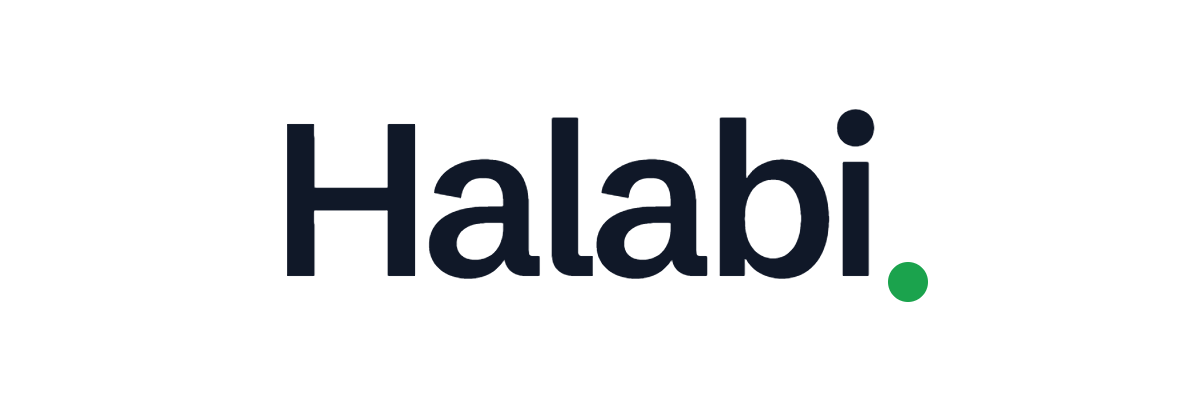
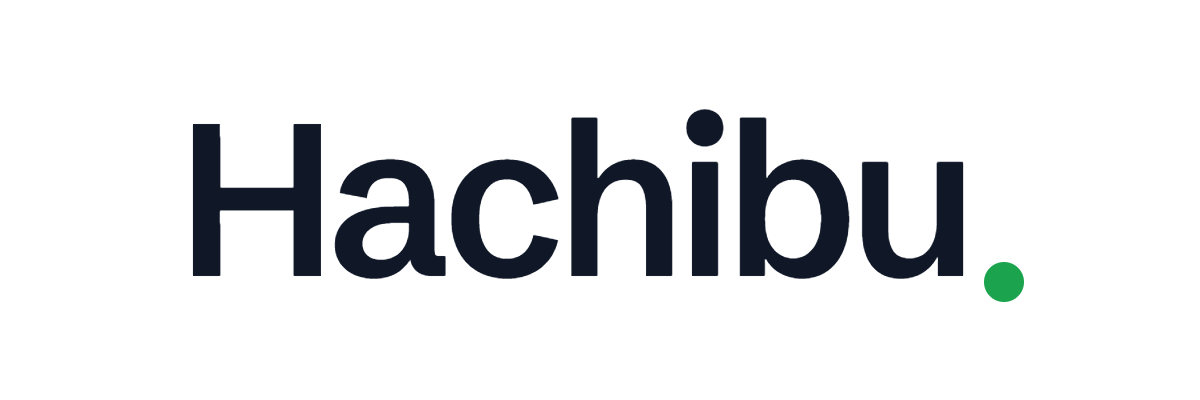
Aus Halabi wird Hachibu
Der frühere Name war im App Store bereits belegt (geprüft über Apples
Suchschnittstelle: eine App mit exakt dem Namen "Halabi"). "Hachibu" ist
in den Storefronts Deutschland und USA frei.

app.json:
- name "Hachibu", slug "hachibu", scheme "hachibu"
- ios.bundleIdentifier und android.package: com.abdelkarim.hachibu
  (vor dem ersten Build geändert, danach dauerhaft)
- ios.infoPlist.ITSAppUsesNonExemptEncryption: false ergänzt
- ios.supportsTablet stand bereits auf false

Marke:
- assets/source/wordmark.png ist der neue Schriftzug "Hachibu."
- assets/splash-icon.png daraus neu erzeugt (npm run icons)
- Das Icon bleibt das Zeichen "H." - es passt unverändert, die
  erzeugten Icon-Dateien sind deshalb identisch geblieben

Dokumente:
- Datenschutz, Impressum, Support, Startseite, README und
  docs/_config.yml auf Hachibu umgestellt
- Checkliste: Namensprüfung mit dem neuen Ergebnis, Bundle-ID als
  entschieden markiert, Store-Name wieder ohne Zusatz ("Hachibu"),
  Keywords entsprechend angepasst (95 von 100 Bytes)

DATABASE_NAME, der Open-Food-Facts-User-Agent und die GitHub-Pages-URLs
bleiben unverändert: Die Datenbank darf nicht umziehen und das
Repository heißt weiterhin AllahumaDiaet.

Geprüft: npm test (90 grün), npm run typecheck, npx expo-doctor (21/21),
npm run icons (alle Prüfungen OK).

Changed region(s): [[0.1542, 0.27, 0.8633, 0.75], [0.6783, 0.27, 0.74, 0.36]]

diff --git a/src/appInfo.ts b/src/appInfo.ts
@@ -3,7 +3,7 @@ import Constants from 'expo-constants';
 import { buildUserAgent } from './lib/openFoodFacts';
 
 // Anzeigename und Version kommen aus app.json, damit sie nur an einer Stelle gepflegt werden.
-export const APP_NAME = Constants.expoConfig?.name ?? 'Halabi';
+export const APP_NAME = Constants.expoConfig?.name ?? 'Hachibu';
 export const APP_VERSION = Constants.expoConfig?.version ?? '1.0.0';
 
 export const CONTACT_EMAIL = 'abdel.abu99@gmail.com';

diff --git a/docs/app-store-connect.md b/docs/app-store-connect.md
@@ -1,4 +1,4 @@
-# App Store Connect – Checkliste für Halabi
+# App Store Connect – Checkliste für Hachibu
 
 > **Arbeitsdokument, keine Rechtsberatung.** Wird nicht über GitHub Pages veröffentlicht (`_config.yml` → `exclude`).
 > Alle offenen Punkte sind mit TODO markiert. Stand der Apple-Vorgaben: 15.09.2026 – vor dem Einreichen in App Store Connect gegenprüfen.
@@ -9,7 +9,7 @@ Reihenfolge ungefähr so, wie die Schritte aufeinander aufbauen.
 
 - [x] Mitgliedschaft im [Apple Developer Program](https://developer.apple.com/programs/) ist bezahlt (deine Angabe, 17.09.2026).
 - [ ] Kontotyp im [Developer-Portal](https://developer.apple.com/account) unter *Membership details* nachsehen:
-  - **Einzelperson (Individual):** Anbietername im App Store ist dein eigener Name, also Karim Abu Elkheir. So ist Halabi geplant.
+  - **Einzelperson (Individual):** Anbietername im App Store ist dein eigener Name, also Karim Abu Elkheir. So ist Hachibu geplant.
   - **Organisation:** nur mit eingetragener Rechtsform und D-U-N-S-Nummer möglich. Ein Wechsel ist später nur über den Apple-Support möglich, deshalb jetzt bewusst entscheiden.
 - [ ] Zwei-Faktor-Authentifizierung für die Apple-ID aktiv.
 
@@ -17,10 +17,10 @@ Reihenfolge ungefähr so, wie die Schritte aufeinander aufbauen.
 
 - [ ] *Apps → + → Neue App*
   - Plattform: iOS
-  - Name (App-Store-Name, max. 30 Zeichen): **Halabi Kalorientracker** – „Halabi“ allein ist belegt, siehe *2a. Namensprüfung*. Der Name auf dem Homescreen bleibt „Halabi“ (`app.json` → `name`).
+  - Name (App-Store-Name, max. 30 Zeichen): **Hachibu** – geprüft und frei, siehe *2a. Namensprüfung*. Derselbe Name steht auf dem Homescreen (`app.json` → `name`).
   - Primäre Sprache: Deutsch
-  - Bundle-ID: **com.abdelkarim.allahumadiaet** (`app.json` → `ios.bundleIdentifier`; muss zuerst unter *Certificates, Identifiers & Profiles* existieren – `eas build` legt sie beim ersten Build an). **Nach dem ersten Upload nicht mehr änderbar**, siehe *2b. Bundle-ID*.
-  - SKU: frei wählbar, z. B. `halabi-ios`
+  - Bundle-ID: **com.abdelkarim.hachibu** (`app.json` → `ios.bundleIdentifier`; muss zuerst unter *Certificates, Identifiers & Profiles* existieren – `eas build` legt sie beim ersten Build an). **Nach dem ersten Upload nicht mehr änderbar**, siehe *2b. Bundle-ID*.
+  - SKU: frei wählbar, z. B. `hachibu-ios`
   - Benutzerzugriff: Vollzugriff
 - [ ] Unter *App-Informationen → Allgemeine Informationen* die **Apple-ID** (nur Ziffern) ablesen und in `eas.json` bei `submit.production.ios.ascAppId` statt `TODO_ASC_APP_ID` eintragen.
 - [ ] Kategorie: **Gesundheit & Fitness** (primär). Sekundär optional, z. B. *Essen & Trinken*.
@@ -29,19 +29,16 @@ Reihenfolge ungefähr so, wie die Schritte aufeinander aufbauen.
 ## 2a. Namensprüfung (Stand 17.09.2026)
 
 - App-Store-Namen sind weltweit eindeutig. Ist ein Name vergeben, lässt App Store Connect ihn nicht mehr reservieren; Groß- und Kleinschreibung macht dabei keinen Unterschied.
-- Geprüft über die öffentliche Suchschnittstelle von Apple (`https://itunes.apple.com/search?term=halabi&entity=software`, Storefronts Deutschland und USA): Es gibt bereits eine App mit dem exakten Namen **„Halabi“** – Anbieter Yaseen Halabi, Kategorie Social Networking, Bundle-ID `com.contactapp.thecontactapp`.
-- **Ergebnis: „Halabi“ allein ist als App-Store-Name nicht verfügbar.** Die Marke bleibt trotzdem nutzbar, der Store-Name braucht nur einen Zusatz.
-- Empfehlung: `Halabi Kalorientracker` (22 Zeichen). Alternativen: `Halabi – Kalorien zählen` (24 Zeichen), `Halabi Kalorien & Makros` (24 Zeichen).
-- Guideline 2.3.7 verbietet Keyword-Stapeln im Namen: ein beschreibendes Wort ist erlaubt, eine Aufzählung von Suchbegriffen nicht. Wörter, die im Namen oder Untertitel stehen, müssen nicht noch einmal in die Keywords.
-- Der Anzeigename auf dem Gerät darf kürzer sein, muss aber erkennbar zum Store-Namen passen (Guideline 2.3.8). „Halabi“ als Anfang von „Halabi Kalorientracker“ passt.
-- [ ] Markenrecherche vor dem Anlegen: [DPMAregister](https://register.dpma.de/DPMAregister/marke/experte), [EUIPO eSearch](https://euipo.europa.eu/eSearch/) und [TMview](https://www.tmdn.org/tmview/) nach „Halabi“ in den Klassen 9 (Software) und 42/44 durchsuchen. „Halabi“ ist ein verbreiteter Familienname; eine eingetragene Wortmarke Dritter wäre ein echtes Risiko, weil Apple bei einer Beschwerde die App entfernt. Diese Register lassen sich nur von Hand durchsuchen, und die Bewertung des Ergebnisses ist Rechtsberatung – das musst du selbst oder mit einer Anwaltskanzlei erledigen.
+- Geprüft über die öffentliche Suchschnittstelle von Apple (`https://itunes.apple.com/search?term=hachibu&entity=software`, Storefronts Deutschland und USA): **kein Treffer**. „Hachibu“ ist als App-Store-Name frei.
+- Name: **`Hachibu`** (7 von 30 Zeichen), Untertitel `Kalorien scannen & zählen`. Ein beschreibender Zusatz im Namen ist nicht nötig, weil Apple den Untertitel ohnehin mit indexiert. Guideline 2.3.7 (kein Keyword-Stapeln) ist damit unproblematisch, Guideline 2.3.8 ebenfalls, weil der Name auf dem Gerät identisch ist.
+- Vorgeschichte: Der frühere Arbeitsname „Halabi“ war im App Store schon von einer anderen App belegt (Anbieter Yaseen Halabi, Social Networking). Das war der Anlass für den Wechsel auf Hachibu.
+- [ ] Markenrecherche vor dem Anlegen: [DPMAregister](https://register.dpma.de/DPMAregister/marke/experte), [EUIPO eSearch](https://euipo.europa.eu/eSearch/) und [TMview](https://www.tmdn.org/tmview/) nach „Hachibu“ in Klasse 9 (Software) und 42/44 durchsuchen. Als Fantasiewort ist das Risiko geringer als bei einem Familiennamen, aber die Prüfung bleibt nötig: Bei einer Markenbeschwerde entfernt Apple die App. Die Register lassen sich nur von Hand durchsuchen, und die Bewertung des Ergebnisses ist Rechtsberatung.
 
 ## 2b. Bundle-ID (Entscheidung, die bleibt)
 
 - Die Bundle-ID entsteht beim ersten Build und ist danach **dauerhaft**: Sie lässt sich für eine eingereichte App nicht mehr ändern. Ein anderer Wert bedeutet später eine neue App mit neuer Apple-ID – bestehende Installationen bekommen dann keine Updates. Für Android gilt dasselbe für `android.package` ab der ersten Veröffentlichung.
-- Aktuell steht dort `com.abdelkarim.allahumadiaet`, also der alte Projektname. Nutzer sehen die ID nie; sie taucht nur in Entwicklerwerkzeugen auf.
-- Solange kein Build hochgeladen ist, kostet ein Wechsel nichts.
-- [ ] Entscheiden: `com.abdelkarim.allahumadiaet` behalten oder **vor** dem ersten `eas build` in `app.json` sowohl `ios.bundleIdentifier` als auch `android.package` auf `com.abdelkarim.halabi` ändern. Danach nicht mehr anfassen.
+- [x] **Entschieden am 17.09.2026:** `com.abdelkarim.hachibu`, eingetragen in `app.json` unter `ios.bundleIdentifier` **und** `android.package`. Der alte Wert `com.abdelkarim.allahumadiaet` stammte aus dem früheren Projektnamen und ist ersetzt, solange noch kein Build hochgeladen war.
+- Ab dem ersten `eas build` bleibt dieser Wert unverändert.
 
 ## 3. URLs
 
@@ -114,13 +111,13 @@ Eher **kein** Händler: Hobby-Entwickler ohne Absicht, mit der App Geld zu verdi
 
 - [ ] Angabe im Dashboard machen. Ohne Händlerangabe bietet Apple Apps in den EU-Storefronts nicht an – das gilt unabhängig davon, wie die Antwort ausfällt.
 
-<!-- TODO (Einschätzung durch dich, ggf. mit rechtlicher Beratung): Halabi ist kostenlos, werbefrei, ohne In-App-Käufe und ohne Einnahmen – das spricht gegen Händlerstatus. Apple darf den Status nicht für dich bestimmen. -->
+<!-- TODO (Einschätzung durch dich, ggf. mit rechtlicher Beratung): Hachibu ist kostenlos, werbefrei, ohne In-App-Käufe und ohne Einnahmen – das spricht gegen Händlerstatus. Apple darf den Status nicht für dich bestimmen. -->
 
-## 7. Häufige Ablehnungsgründe und wie Halabi sie abdeckt
+## 7. Häufige Ablehnungsgründe und wie Hachibu sie abdeckt
 
 ### Guideline 4.3(a) – Spam in einer überfüllten Kategorie
 
-Kalorienzähler gibt es hunderte. Apple lehnt Apps ab, die sich von vorhandenen kaum unterscheiden, und besonders Apps aus Baukästen oder Vorlagen. Was Halabi unterscheidet und was deshalb in Beschreibung und Prüfnotizen gehört:
+Kalorienzähler gibt es hunderte. Apple lehnt Apps ab, die sich von vorhandenen kaum unterscheiden, und besonders Apps aus Baukästen oder Vorlagen. Was Hachibu unterscheidet und was deshalb in Beschreibung und Prüfnotizen gehört:
 
 - Kein Konto, keine Anmeldung, kein Abo, keine In-App-Käufe, keine Werbung, kein Tracking – bei den großen Anbietern fast immer anders.
 - Alle Daten liegen in einer lokalen SQLite-Datenbank, es gibt keinen Server des Anbieters.
@@ -161,7 +158,7 @@ Vorschlag für 5–6 Motive: Dashboard mit Kalorienring · Scanner · Eintragen 
 Unter *Versionsinformationen → App Review Information → Notizen* einfügen:
 
 ```text
-Halabi ist ein Kalorien- und Makrotracker nach dem Prinzip „Scannen und eintragen“.
+Hachibu ist ein Kalorien- und Makrotracker nach dem Prinzip „Scannen und eintragen“.
 
 - Kein Login erforderlich, keine Konten, keine In-App-Käufe, keine Werbung.
 - Alle Nutzerdaten werden ausschließlich lokal auf dem Gerät gespeichert (SQLite).
@@ -211,17 +208,17 @@ Die drei Barcodes wurden am 15.09.2026 (zweimal) über die Open-Food-Facts-API m
 
 Ohne Heilversprechen und ohne medizinische Aussagen.
 
-**Name** (max. 30 Zeichen, 22 genutzt): `Halabi Kalorientracker` – „Halabi“ allein ist im App Store belegt, siehe Abschnitt 2a.
+**Name** (max. 30 Zeichen, 7 genutzt): `Hachibu`
 
 **Untertitel** (max. 30 Zeichen, 25 genutzt): `Kalorien scannen & zählen`
 
-**Keywords** (max. 100 Bytes, Umlaute zählen doppelt; 96 Bytes genutzt):
+**Keywords** (max. 100 Bytes, Umlaute zählen doppelt; 95 Bytes genutzt):
 
 ```text
-Kalorienzähler,Makros,Barcode,Scanner,Ernährung,Protein,Nährwerte,Lebensmittel,Diät,Tagebuch
+Kalorienzähler,Makros,Barcode,Scanner,Ernährung,Protein,Nährwerte,Lebensmittel,Diät,Tracker
 ```
 
-Apple sucht auch in Name und Untertitel. „Kalorien“, „Tracker“ und „zählen“ stehen deshalb nicht mehr in den Keywords, dafür sind „Diät“ und „Tagebuch“ neu.
+Apple sucht auch in Name und Untertitel. „Kalorien“, „scannen“ und „zählen“ stehen deshalb nicht in den Keywords – der Untertitel deckt sie ab. Weil der Name selbst kein beschreibendes Wort enthält, steht „Tracker“ hier.
 
 **Werbetext** (optional, max. 170 Zeichen):
 
@@ -232,7 +229,7 @@ Barcode scannen, Menge eintippen, fertig: Kalorien und Makros in Sekunden erfass
 **Beschreibung** (max. 4000 Zeichen):
 
 ```text
-Halabi macht das Erfassen von Kalorien und Makronährstoffen so schnell wie möglich: App öffnen, Barcode scannen, Menge eintippen, speichern. Mehr nicht.
+Hachibu macht das Erfassen von Kalorien und Makronährstoffen so schnell wie möglich: App öffnen, Barcode scannen, Menge eintippen, speichern. Mehr nicht.
 
 SCANNEN UND EINTRAGEN
 • Barcode-Scanner für EAN, UPC und QR-Codes auf Lebensmittelverpackungen

diff --git a/docs/datenschutz.md b/docs/datenschutz.md
@@ -1,5 +1,5 @@
 ---
-title: Datenschutzerklärung – Halabi
+title: Datenschutzerklärung – Hachibu
 ---
 
 # Datenschutzerklärung
@@ -8,7 +8,7 @@ title: Datenschutzerklärung – Halabi
 
 Stand: <!-- TODO: Datum der Veröffentlichung eintragen --> TT.MM.JJJJ
 
-Diese Datenschutzerklärung gilt für die App **Halabi** für iOS und Android sowie für diese Webseite.
+Diese Datenschutzerklärung gilt für die App **Hachibu** für iOS und Android sowie für diese Webseite.
 
 ## 1. Verantwortlicher
 
@@ -22,7 +22,7 @@ Ein Datenschutzbeauftragter ist nicht benannt. Nach Art. 37 DSGVO und § 38 BDSG
 
 ## 2. Das Wichtigste in Kürze
 
-- Halabi hat **kein Konto, keine Werbung, kein Tracking und keine eigenen Analyse-Werkzeuge**.
+- Hachibu hat **kein Konto, keine Werbung, kein Tracking und keine eigenen Analyse-Werkzeuge**.
 - Alles, was du in der App eingibst – Profil, Gewicht, Tagebuch, selbst angelegte Produkte –, wird **nur auf deinem Gerät** gespeichert. Ich als Anbieter habe darauf keinen Zugriff.
 - Nur wenn du ein Produkt scannst, eine Barcode-Nummer eingibst oder aktiv online suchst, fragt die App die Datenbank **Open Food Facts** ab. Dabei werden der Barcode bzw. dein Suchbegriff und technisch bedingt deine IP-Adresse übermittelt.
 
@@ -63,7 +63,7 @@ Wenn du einen Barcode scannst oder eintippst und das Produkt noch nicht auf dein
 Anbieter der Datenbank ist Open Food Facts, eine Vereinigung nach französischem Recht mit Sitz in 21 rue des Iles, 94100 Saint-Maur-des-Fossés, Frankreich. Open Food Facts verarbeitet diese Daten in eigener Verantwortung; Details findest du in der [Datenschutzerklärung von Open Food Facts](https://world.openfoodfacts.org/privacy). Nach deren Angaben werden IP-Adressen in Server-Logs für Sicherheit, technische Analysen und Statistik gespeichert.
 
 Die Übermittlung erfolgt nur, wenn du aktiv ein Produkt suchst, und ist für diese Funktion erforderlich. Rechtsgrundlage ist Art. 6 Abs. 1 lit. f DSGVO; das berechtigte Interesse liegt darin, dir die gewünschten Produktdaten anzuzeigen.
-Open Food Facts handelt dabei als eigener Verantwortlicher und nicht als Auftragsverarbeiter für mich: Die Vereinigung entscheidet selbst über Zwecke und Mittel und hat eine eigene Datenschutzerklärung. Als Dienstleister nennt Open Food Facts dort nur Mailjet, Brevo und Donorbox für E-Mail, Newsletter und Spenden; diese Funktionen nutzt Halabi nicht. Dienstleister außerhalb der EU für die Produktabfrage werden dort nicht genannt.
+Open Food Facts handelt dabei als eigener Verantwortlicher und nicht als Auftragsverarbeiter für mich: Die Vereinigung entscheidet selbst über Zwecke und Mittel und hat eine eigene Datenschutzerklärung. Als Dienstleister nennt Open Food Facts dort nur Mailjet, Brevo und Donorbox für E-Mail, Newsletter und Spenden; diese Funktionen nutzt Hachibu nicht. Dienstleister außerhalb der EU für die Produktabfrage werden dort nicht genannt.
 <!-- TODO (rechtliche Prüfung): Ob statt Art. 6 Abs. 1 lit. f zusätzlich lit. b greift (kostenloser Vertrag über digitale Inhalte, § 327 BGB), ist Auslegungsfrage. Die Angabe „lit. f“ ist die vorsichtigere Variante, weil sie dir ein Widerspruchsrecht nach Art. 21 DSGVO einräumt. -->
 
 Wenn du ein gefundenes Produkt einträgst oder seine Werte korrigierst, werden die Produktdaten auf deinem Gerät gespeichert, damit spätere Scans ohne erneute Abfrage funktionieren.

diff --git a/docs/support.md b/docs/support.md
@@ -1,10 +1,10 @@
 ---
-title: Support – Halabi
+title: Support – Hachibu
 ---
 
 # Support
 
-Du hast eine Frage, einen Fehler gefunden oder einen Wunsch für Halabi? Schreib eine E-Mail an
+Du hast eine Frage, einen Fehler gefunden oder einen Wunsch für Hachibu? Schreib eine E-Mail an
 **[abdel.abu99@gmail.com](mailto:abdel.abu99@gmail.com)**.
 
 Hilfreich sind dabei die App-Version (zu finden in der App unter *Info & Rechtliches*), dein Gerät und – bei Problemen mit einem Produkt – der Barcode.
@@ -27,7 +27,7 @@ Beim Eintragen auf *Nährwerte korrigieren* tippen. Die Korrektur gilt ab dann f
 In der App unter *Info & Rechtliches → Alle Daten löschen*. Alternativ die App deinstallieren.
 
 **Wie wird mein Kalorienziel berechnet?**
-Halabi berechnet den Grundumsatz nach der Formel von Mifflin-St. Jeor und multipliziert ihn mit dem PAL-Faktor deines Aktivitätslevels nach den Referenzwerten der Deutschen Gesellschaft für Ernährung. Beim Abnehmen werden 500 kcal abgezogen, beim Zunehmen 300 kcal addiert; unter deinen Grundumsatz geht das Ziel nie. Makronährstoffe werden mit 4 kcal je Gramm Protein und Kohlenhydrate und 9 kcal je Gramm Fett umgerechnet. Den Rechenweg und alle Quellen findest du in der App unter *Info & Rechtliches → Berechnung & Quellen*. Die Werte sind Richtwerte für gesunde Erwachsene und ersetzen keine ärztliche oder ernährungsfachliche Beratung.
+Hachibu berechnet den Grundumsatz nach der Formel von Mifflin-St. Jeor und multipliziert ihn mit dem PAL-Faktor deines Aktivitätslevels nach den Referenzwerten der Deutschen Gesellschaft für Ernährung. Beim Abnehmen werden 500 kcal abgezogen, beim Zunehmen 300 kcal addiert; unter deinen Grundumsatz geht das Ziel nie. Makronährstoffe werden mit 4 kcal je Gramm Protein und Kohlenhydrate und 9 kcal je Gramm Fett umgerechnet. Den Rechenweg und alle Quellen findest du in der App unter *Info & Rechtliches → Berechnung & Quellen*. Die Werte sind Richtwerte für gesunde Erwachsene und ersetzen keine ärztliche oder ernährungsfachliche Beratung.
 
 **Werden meine Daten gesichert oder synchronisiert?**
 Nein, es gibt kein Konto und keine Cloud. Deine Daten können aber in den Geräte-Backups deines Betriebssystems (z. B. iCloud-Backup) enthalten sein.

diff --git a/README.md b/README.md
@@ -1,4 +1,4 @@
-# Halabi
+# Hachibu
 
 Kalorientracker-App für iPhone und Android nach dem Prinzip „Scan & Go“: öffnen, Barcode scannen, Menge eintippen, fertig.
 
@@ -25,7 +25,7 @@ Kalorientracker-App für iPhone und Android nach dem Prinzip „Scan & Go“: ö
 
 ## Marke
 
-Die Vorlagen liegen in `assets/source/`: `icon.png` (Zeichen „H.“ auf Creme `#F7F6F3`) und `wordmark.png` (Schriftzug „Halabi.“, transparent).
+Die Vorlagen liegen in `assets/source/`: `icon.png` (Zeichen „H.“ auf Creme `#F7F6F3`) und `wordmark.png` (Schriftzug „Hachibu.“, transparent).
 `npm run icons` erzeugt daraus alle App-Icons und das Startbild und prüft Größe, Farbmodus, Alphakanal und die Android-Safe-Zone.
 Neue Vorlagen einfach dort ersetzen und das Skript erneut ausführen.
 

diff --git a/docs/index.md b/docs/index.md
@@ -1,8 +1,8 @@
 ---
-title: Halabi
+title: Hachibu
 ---
 
-# Halabi
+# Hachibu
 
 Kalorien und Makronährstoffe erfassen: Barcode scannen, Menge eintippen, fertig. Ohne Konto, ohne Werbung – alle Daten bleiben auf deinem Gerät.
 

diff --git a/docs/impressum.md b/docs/impressum.md
@@ -1,5 +1,5 @@
 ---
-title: Impressum – Halabi
+title: Impressum – Hachibu
 ---
 
 # Impressum
